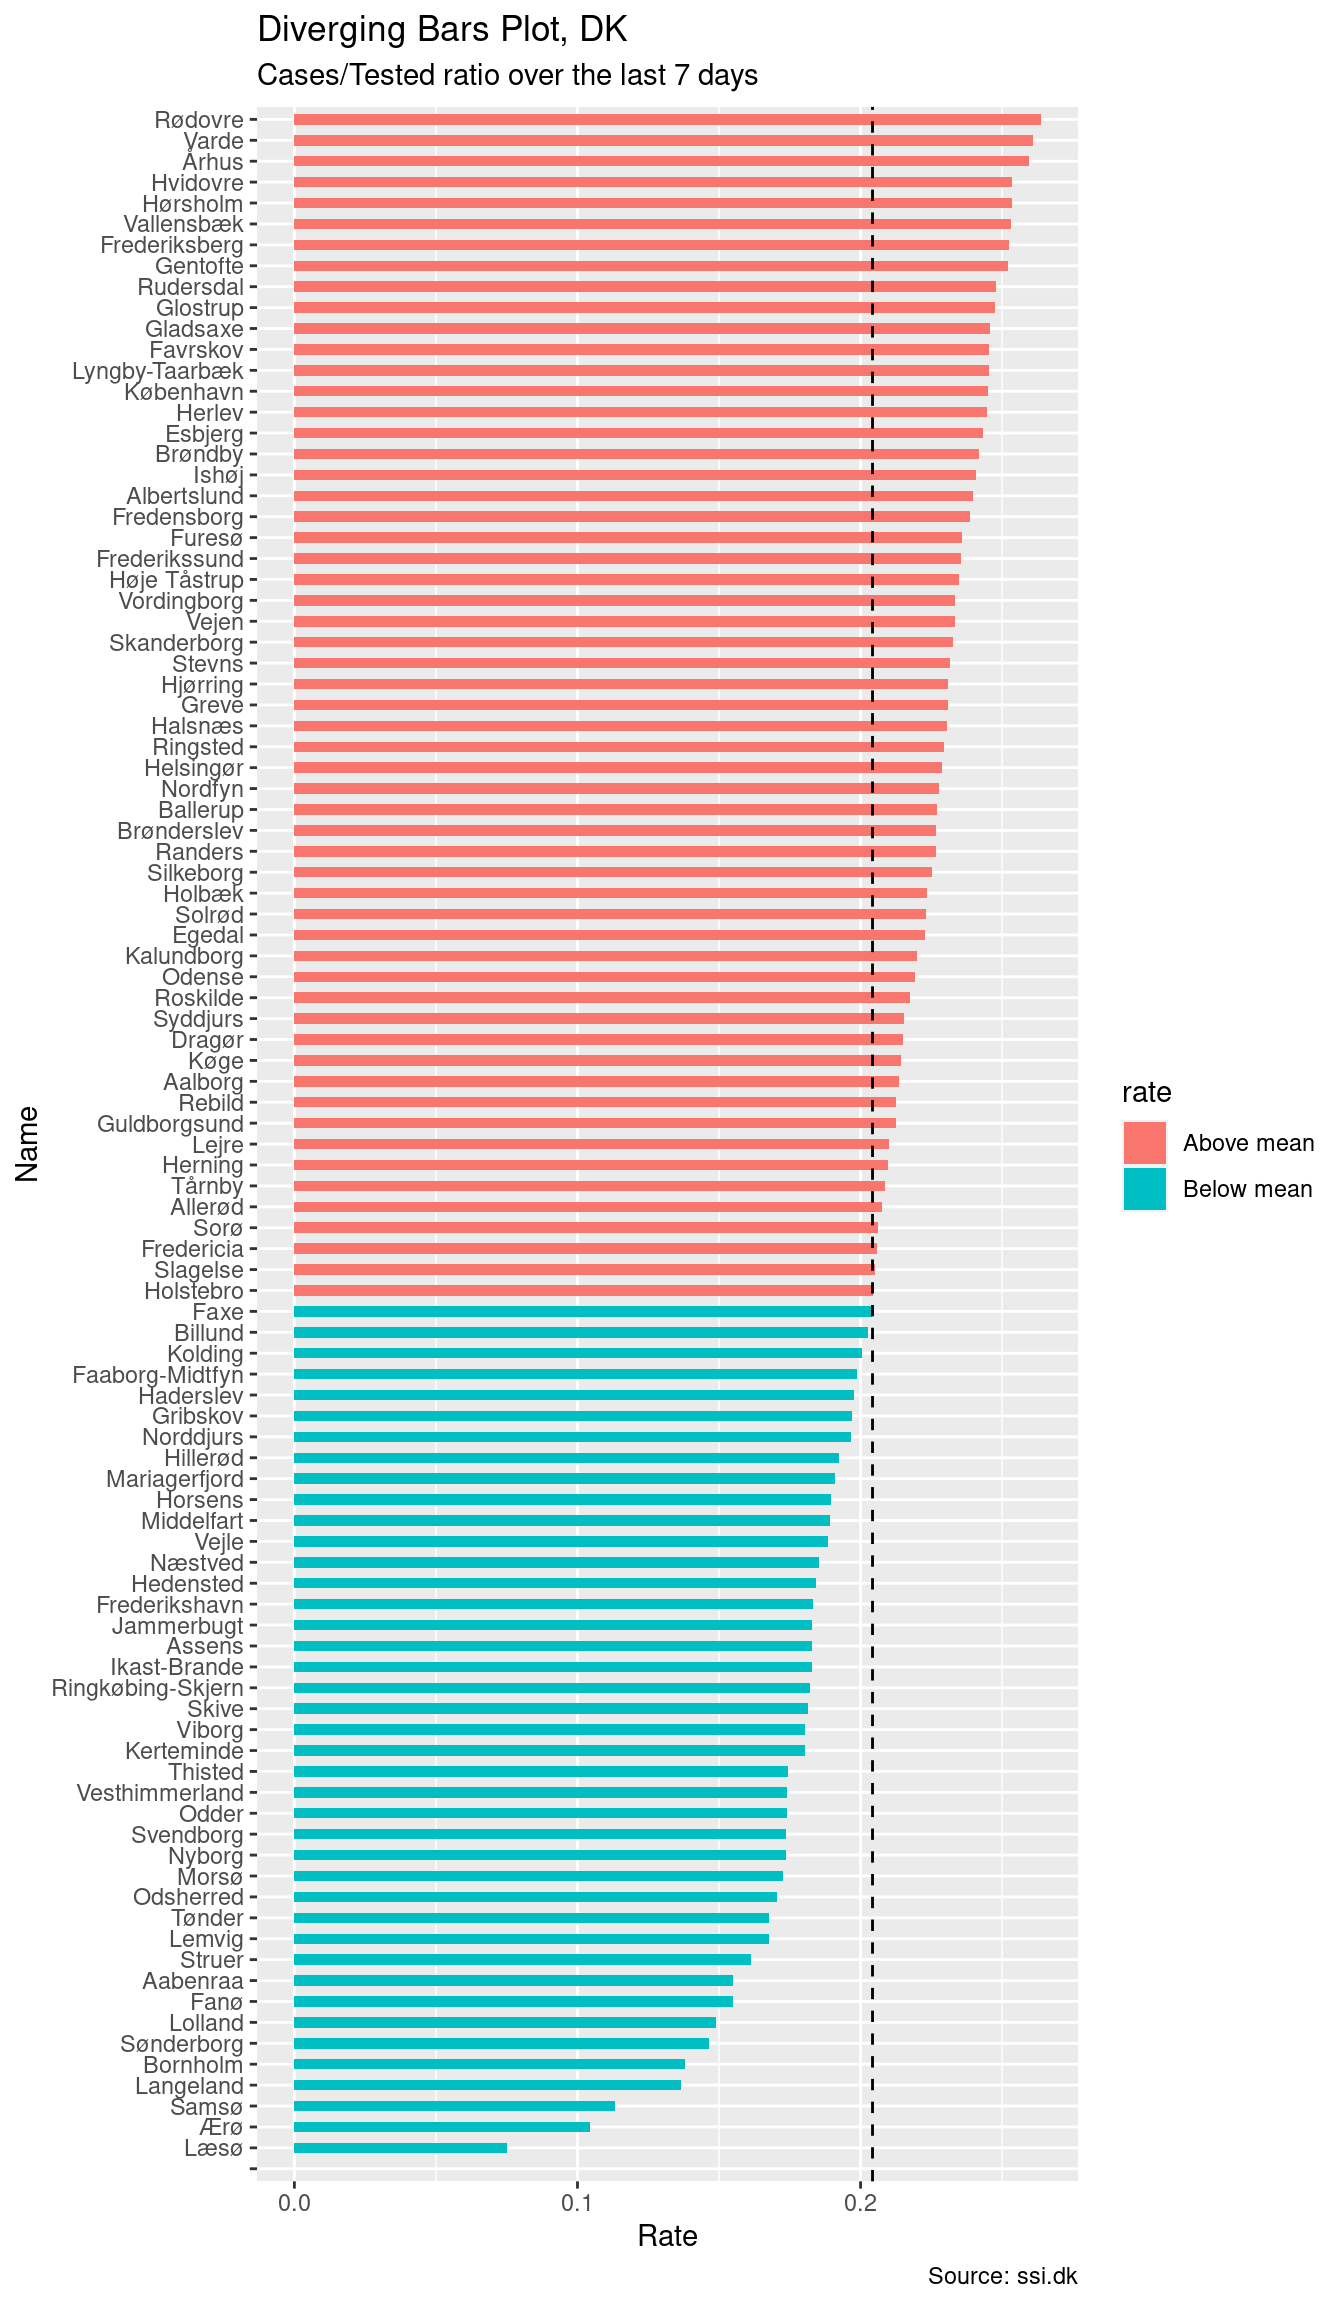
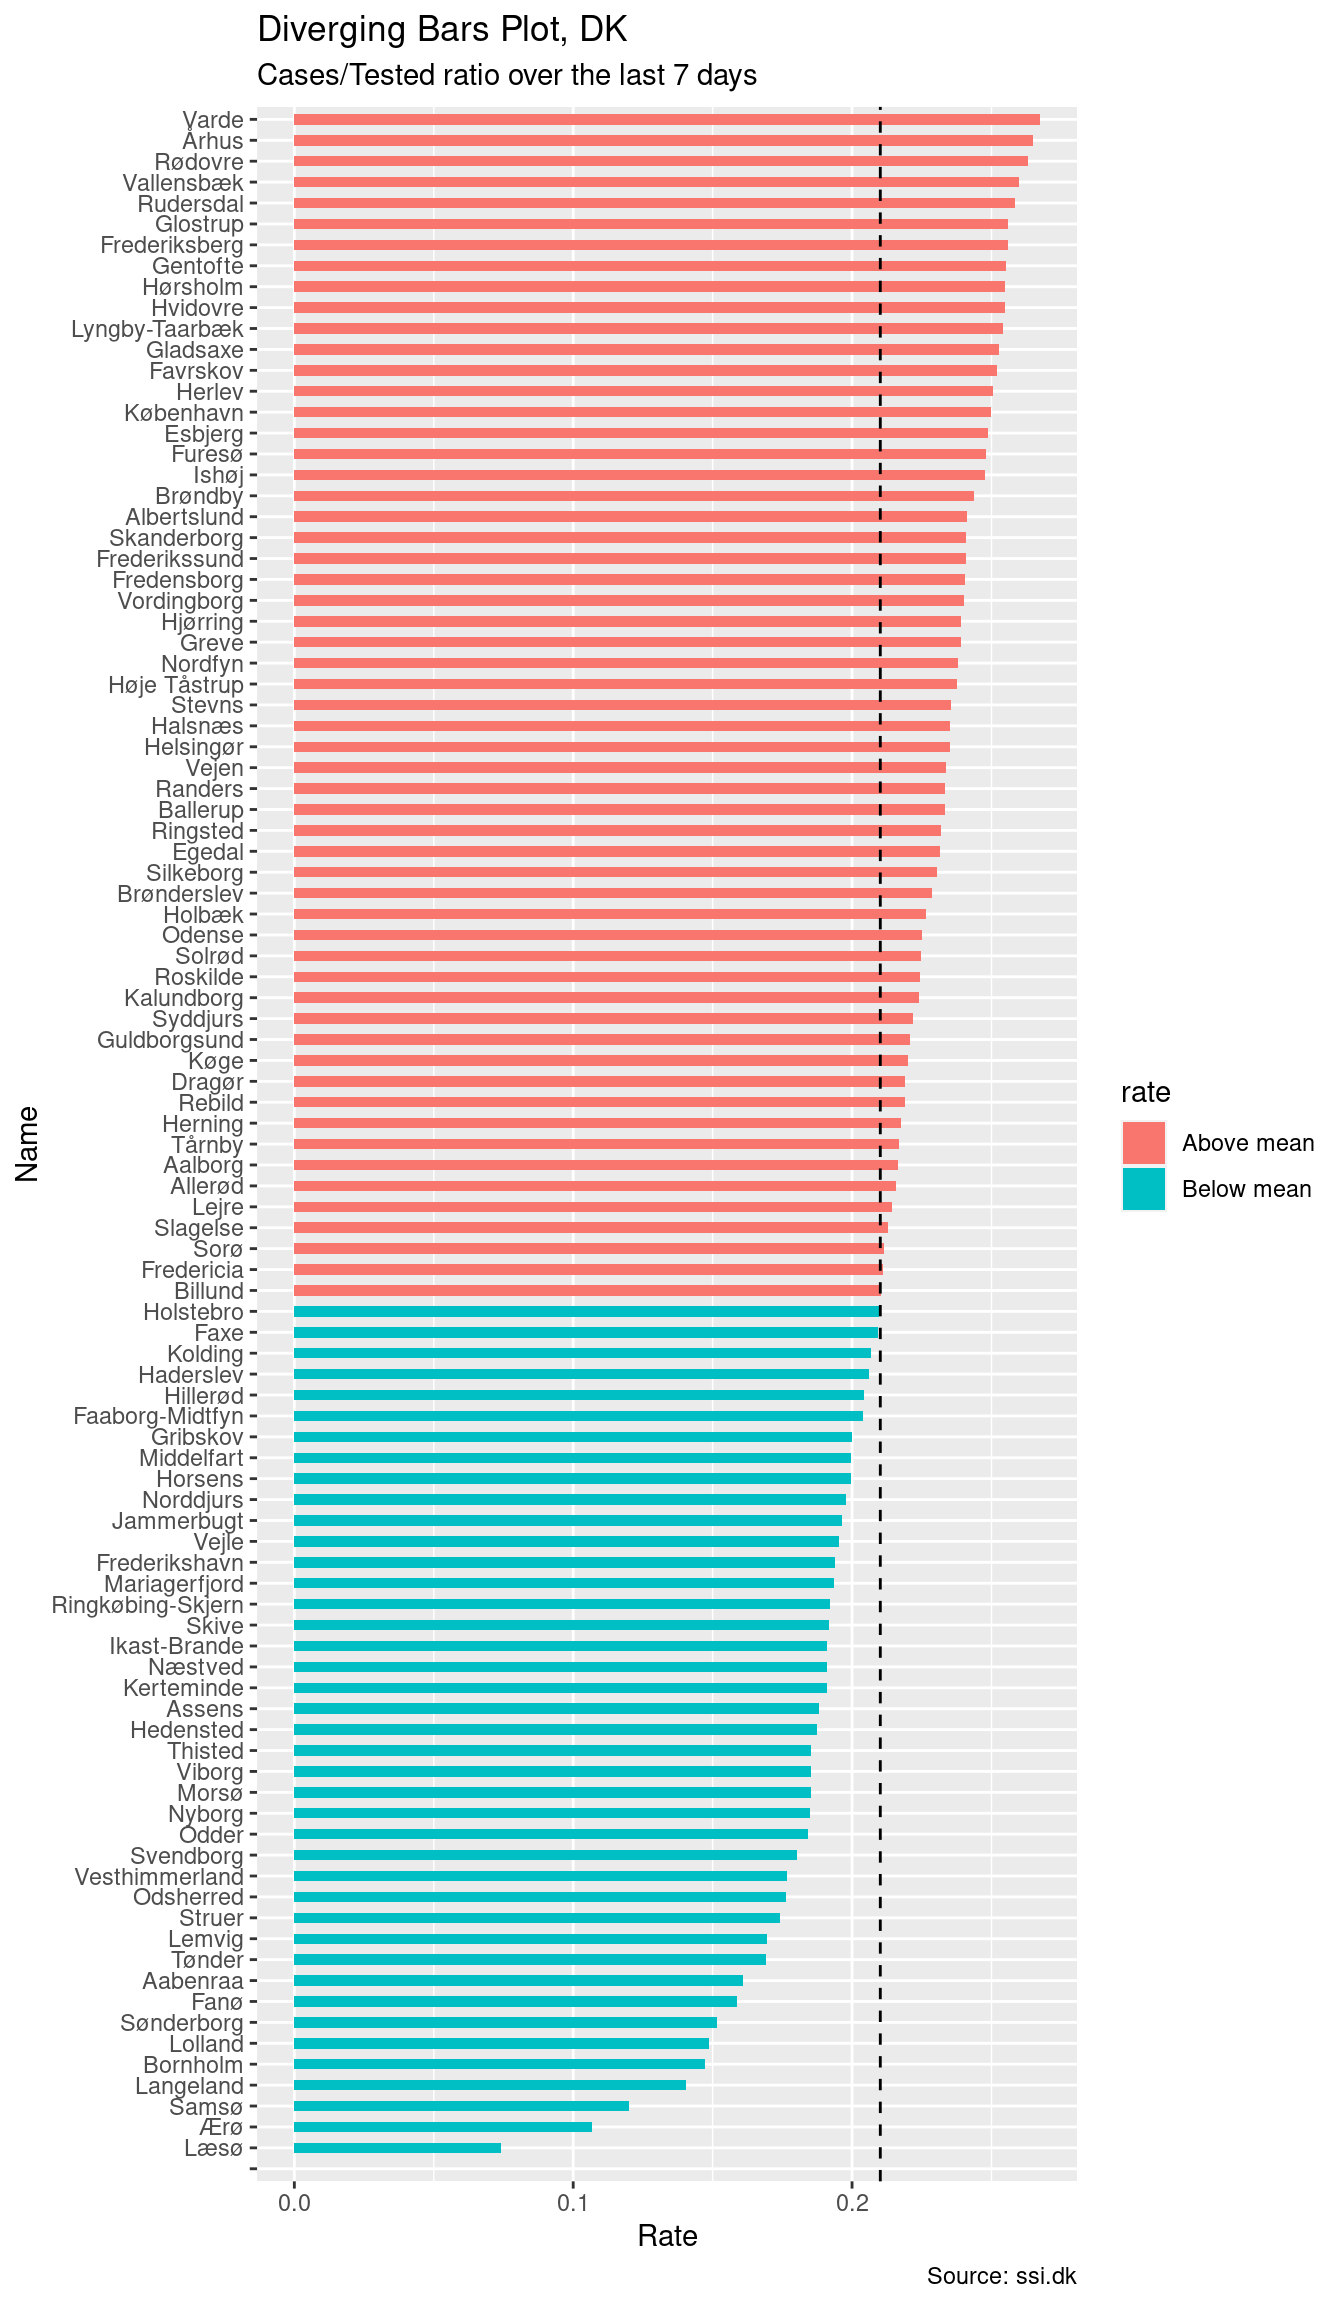
2022-01-25

diff --git a/docs/index.html b/docs/index.html
@@ -10,7 +10,7 @@
 
 
 
-<meta name="date" content="2022-01-24" />
+<meta name="date" content="2022-01-25" />
 
 <title>Covid-19 Stats for Denmark</title>
 
@@ -258,7 +258,7 @@ $(document).ready(function () {
 
 
 <h1 class="title toc-ignore">Covid-19 Stats for Denmark</h1>
-<h4 class="date">2022-01-24</h4>
+<h4 class="date">2022-01-25</h4>
 
 </div>
 
@@ -305,7 +305,7 @@ $(document).ready(function () {
 <pre class="r"><code>library(tidyverse)
 library(lubridate)</code></pre>
 <p>SSI’s data is in a zip file. We unpack this zip file into a directory of the general form <code>YYYY-MM-DD</code>. Lets set up a name for the current directory we want to grab data from</p>
-<pre class="r"><code>date &lt;- &quot;2022-01-24&quot;</code></pre>
+<pre class="r"><code>date &lt;- &quot;2022-01-25&quot;</code></pre>
 </div>
 <div id="ingesting-data" class="section level2">
 <h2>Ingesting data</h2>
@@ -347,7 +347,7 @@ library(lubridate)</code></pre>
                                       ))</code></pre>
 <pre><code>## ℹ Using &quot;&#39;,&#39;&quot; as decimal and &quot;&#39;.&#39;&quot; as grouping mark. Use `read_delim()` for more control.</code></pre>
 <pre class="r"><code>data</code></pre>
-<pre><code>## # A tibble: 6,625 × 9
+<pre><code>## # A tibble: 6,641 × 9
 ##    Region      Prøvetagningsdato Køn   `Bekræftede tilfælde`  Døde Indlæggelser
 ##    &lt;fct&gt;       &lt;date&gt;            &lt;fct&gt;                 &lt;dbl&gt; &lt;dbl&gt;        &lt;dbl&gt;
 ##  1 Sjælland    2020-02-26        M                         1     0            0
@@ -360,7 +360,7 @@ library(lubridate)</code></pre>
 ##  8 Hovedstaden 2020-03-03        F                         1     0            0
 ##  9 Hovedstaden 2020-03-03        M                         3     0            1
 ## 10 Hovedstaden 2020-03-04        M                         2     0            0
-## # … with 6,615 more rows, and 3 more variables: Kummuleret antal døde &lt;dbl&gt;,
+## # … with 6,631 more rows, and 3 more variables: Kummuleret antal døde &lt;dbl&gt;,
 ## #   Kummuleret antal bekræftede tilfælde &lt;dbl&gt;,
 ## #   Kummuleret antal indlæggelser &lt;dbl&gt;</code></pre>
 <p>We certainly don’t want to work with danish-named columns. Rather, we want small descriptive names which are easy to type. We send our dataset through a <code>rename</code> pass for this.</p>
@@ -375,7 +375,7 @@ library(lubridate)</code></pre>
 # Cut the cumulative columns away
 data &lt;- data %&gt;% select(region, date, gender, cases, deaths, hospitalizations)
 data</code></pre>
-<pre><code>## # A tibble: 6,625 × 6
+<pre><code>## # A tibble: 6,641 × 6
 ##    region      date       gender cases deaths hospitalizations
 ##    &lt;fct&gt;       &lt;date&gt;     &lt;fct&gt;  &lt;dbl&gt;  &lt;dbl&gt;            &lt;dbl&gt;
 ##  1 Sjælland    2020-02-26 M          1      0                0
@@ -388,7 +388,7 @@ data</code></pre>
 ##  8 Hovedstaden 2020-03-03 F          1      0                0
 ##  9 Hovedstaden 2020-03-03 M          3      0                1
 ## 10 Hovedstaden 2020-03-04 M          2      0                0
-## # … with 6,615 more rows</code></pre>
+## # … with 6,631 more rows</code></pre>
 <p>Provide a low cut-off. We are interested in the recent period with Omicron, rather than the full duration of Covid-19.</p>
 <pre class="r"><code>lo_cutoff &lt;- &#39;2021-09-01&#39;</code></pre>
 <p>The high end of that cutoff, we set to two days before the maximal date in our data set</p>
@@ -402,7 +402,7 @@ data</code></pre>
 # Put this into the summary
 summary &lt;- data
 summary</code></pre>
-<pre><code>## # A tibble: 1,430 × 6
+<pre><code>## # A tibble: 1,440 × 6
 ##    region      date       gender cases deaths hospitalizations
 ##    &lt;fct&gt;       &lt;date&gt;     &lt;fct&gt;  &lt;dbl&gt;  &lt;dbl&gt;            &lt;dbl&gt;
 ##  1 Hovedstaden 2021-09-01 F        210      0                7
@@ -415,7 +415,7 @@ summary</code></pre>
 ##  8 Nordjylland 2021-09-01 M         16      1                2
 ##  9 Sjælland    2021-09-01 M         37      0                3
 ## 10 Syddanmark  2021-09-01 M         41      0                1
-## # … with 1,420 more rows</code></pre>
+## # … with 1,430 more rows</code></pre>
 </div>
 <div id="weekly-key-figures-split-by-age" class="section level3">
 <h3>Weekly key figures split by age</h3>
@@ -506,15 +506,15 @@ data</code></pre>
 ##     lau1 name      `Bekræftede tilf… Incidens cases incidence tested tested_100k
 ##    &lt;dbl&gt; &lt;fct&gt;                 &lt;dbl&gt;    &lt;dbl&gt; &lt;dbl&gt;     &lt;dbl&gt;  &lt;dbl&gt;       &lt;dbl&gt;
 ##  1   411 &quot;&quot;                        0       NA     0         0     87       95604
-##  2   101 &quot;Københa…            222150    34643 29642      4622 649229      101000
-##  3   147 &quot;Frederi…             33333    32302  4648      4504 110457      107000
-##  4   151 &quot;Balleru…             15531    31578  2583      5252  49592      101000
-##  5   153 &quot;Brøndby&quot;             12983    36430  1877      5267  35745      100000
-##  6   155 &quot;Dragør&quot;               4506    30846   684      4682  14394       98535
-##  7   157 &quot;Gentoft…             22843    30899  3584      4848  75089      102000
-##  8   159 &quot;Gladsax…             22287    32231  3693      5341  71159      103000
-##  9   161 &quot;Glostru…              7971    34038  1267      5410  24132      103000
-## 10   163 &quot;Herlev&quot;              10254    35626  1596      5545  29460      102000
+##  2   101 &quot;Københa…            226959    35392 30364      4735 649630      101000
+##  3   147 &quot;Frederi…             34078    33024  4795      4647 110528      107000
+##  4   151 &quot;Balleru…             15916    32361  2656      5400  49614      101000
+##  5   153 &quot;Brøndby&quot;             13287    37283  1889      5301  35769      100000
+##  6   155 &quot;Dragør&quot;               4583    31373   705      4826  14402       98590
+##  7   157 &quot;Gentoft…             23250    31450  3653      4941  75128      102000
+##  8   159 &quot;Gladsax…             22856    33054  3801      5497  71212      103000
+##  9   161 &quot;Glostru…              8118    34666  1322      5645  24144      103000
+## 10   163 &quot;Herlev&quot;              10502    36488  1652      5740  29478      102000
 ## # … with 89 more rows, and 3 more variables: tested_1w &lt;dbl&gt;,
 ## #   tested_100k_1w &lt;dbl&gt;, population &lt;dbl&gt;</code></pre>
 <pre class="r"><code>muncipalities &lt;- data</code></pre>
@@ -590,7 +590,7 @@ plot_country_lag(p, &quot;Delta change on cases&quot;, &quot;Source: ssi.dk&quot
 </ul>
 <pre class="r"><code>plot_day_of_week &lt;- function(p, title, caption) {
     p + scale_colour_brewer(palette=&quot;Set2&quot;) +
-        stat_boxplot(aes(fill=weekday, color=weekday), alpha=0.3) +
+        stat_boxplot(aes(color=weekday), alpha=0.3) +
         labs(title = title, caption = caption)
 }
 
@@ -674,21 +674,23 @@ muncipalities$incidence_type &lt;- ifelse(muncipalities$incidence_z &lt; 0, &quo
 muncipalities$rate_z &lt;- round(muncipalities$rate - mean(muncipalities$rate), 5)
 muncipalities$rate_type &lt;- ifelse(muncipalities$rate_z &lt; 0, &quot;Below mean&quot;, &quot;Above mean&quot;)
 muncipalities$rate</code></pre>
-<pre><code>##  [1] 0.0000000 0.2451150 0.2525538 0.2269173 0.2418814 0.2151620 0.2521990
-##  [8] 0.2455942 0.2474126 0.2445602 0.2398654 0.2533649 0.2349310 0.2454257
-## [15] 0.2637087 0.2408570 0.2085766 0.2531110 0.2358711 0.2075506 0.2387398
-## [22] 0.2286676 0.1924886 0.2533303 0.2479256 0.2227898 0.2355594 0.2308635
-## [29] 0.2143077 0.2304606 0.2175883 0.2229983 0.1968474 0.1704989 0.2234386
-## [36] 0.2041840 0.2198900 0.2294261 0.2050003 0.2315967 0.2061588 0.2099151
-## [43] 0.1488740 0.1854396 0.2125181 0.2334431 0.1378691 0.1893402 0.1827604
-## [50] 0.1987813 0.1803346 0.1737912 0.2193578 0.1738136 0.2277079 0.1366397
-## [57] 0.1043557 0.1977416 0.2024629 0.1465828 0.1677052 0.2432182 0.1547826
-## [64] 0.2607707 0.2332575 0.1550751 0.2058766 0.1896597 0.2004756 0.1884416
-## [71] 0.2097839 0.2043301 0.1674945 0.1611521 0.2152798 0.1967572 0.2454409
-## [78] 0.1740000 0.2266819 0.2252261 0.1132075 0.2326404 0.2596552 0.1826835
-## [85] 0.1821151 0.1841875 0.1724432 0.1813855 0.1743829 0.1804194 0.2267425
-## [92] 0.1833697 0.1740502 0.0751634 0.2126398 0.1908599 0.1829044 0.2135254
-## [99] 0.2309109</code></pre>
+<pre><code>##  [1] 0.00000000 0.24971216 0.25584249 0.23318701 0.24358478 0.21908017
+##  [7] 0.25529387 0.25272606 0.25595353 0.25068285 0.24126931 0.25483651
+## [13] 0.23781222 0.25408097 0.26292546 0.24776337 0.21673753 0.25972120
+## [19] 0.24786878 0.21585516 0.24042428 0.23505249 0.20412451 0.25489314
+## [25] 0.25845511 0.23155738 0.24070796 0.23895072 0.22019603 0.23520126
+## [31] 0.22422822 0.22463522 0.19984812 0.17613883 0.22643571 0.20930889
+## [37] 0.22400796 0.23181612 0.21280421 0.23557493 0.21129254 0.21444275
+## [43] 0.14867039 0.19108933 0.22085279 0.24018945 0.14718949 0.19951813
+## [49] 0.18814602 0.20395062 0.19090187 0.18477795 0.22510955 0.18013311
+## [55] 0.23790685 0.14034205 0.10691244 0.20618113 0.21052632 0.15173831
+## [61] 0.16899184 0.24881308 0.15878378 0.26738944 0.23382834 0.16094562
+## [67] 0.21119908 0.19948146 0.20690030 0.19523124 0.21753856 0.20957772
+## [73] 0.16964041 0.17426335 0.22169946 0.19773585 0.25201170 0.18428184
+## [79] 0.23327693 0.23064117 0.11985019 0.24090242 0.26497696 0.19117078
+## [85] 0.19200400 0.18745932 0.18522602 0.19165479 0.18537488 0.18524609
+## [91] 0.22851507 0.19385797 0.17660175 0.07419355 0.21902991 0.19364019
+## [97] 0.19627021 0.21636525 0.23921044</code></pre>
 <pre class="r"><code>ggplot(muncipalities %&gt;% mutate(name = fct_reorder(name, rate)), aes(x=name, y=rate)) +
   geom_bar(stat=&#39;identity&#39;, aes(fill=rate_type), width=.5)  +
   scale_colour_brewer(palette=&quot;Set2&quot;) +
@@ -716,7 +718,7 @@ muncipalities$rate</code></pre>
 popcount &lt;- read_data_2(&quot;./data/DS/2022121185617360647690FOLK1AM68563293012.csv&quot;)</code></pre>
 <pre><code>## ℹ Using &quot;&#39;,&#39;&quot; as decimal and &quot;&#39;.&#39;&quot; as grouping mark. Use `read_delim()` for more control.</code></pre>
 <pre><code>## Rows: 103 Columns: 4</code></pre>
-<pre><code>## ── Column specification ────────────────────────────────────────────────────────
+<pre><code>## ── Column specification ─────────────────────────────────────────────────────────────────────────
 ## Delimiter: &quot;;&quot;
 ## chr (3): X1, X2, X3
 ## dbl (1): X4</code></pre>
@@ -748,15 +750,15 @@ popcount</code></pre>
 ##    name            incidence popcount
 ##    &lt;chr&gt;               &lt;dbl&gt;    &lt;dbl&gt;
 ##  1 &quot;&quot;                      0       NA
-##  2 &quot;København&quot;          4622   644987
-##  3 &quot;Frederiksberg&quot;      4504   103963
-##  4 &quot;Ballerup&quot;           5252    49228
-##  5 &quot;Brøndby&quot;            5267    35535
-##  6 &quot;Dragør&quot;             4682    14602
-##  7 &quot;Gentofte&quot;           4848    74154
-##  8 &quot;Gladsaxe&quot;           5341    69321
-##  9 &quot;Glostrup&quot;           5410    23519
-## 10 &quot;Herlev&quot;             5545    28861
+##  2 &quot;København&quot;          4735   644987
+##  3 &quot;Frederiksberg&quot;      4647   103963
+##  4 &quot;Ballerup&quot;           5400    49228
+##  5 &quot;Brøndby&quot;            5301    35535
+##  6 &quot;Dragør&quot;             4826    14602
+##  7 &quot;Gentofte&quot;           4941    74154
+##  8 &quot;Gladsaxe&quot;           5497    69321
+##  9 &quot;Glostrup&quot;           5645    23519
+## 10 &quot;Herlev&quot;             5740    28861
 ## # … with 89 more rows</code></pre>
 <p>Now, test correlation via Pearson:</p>
 <pre class="r"><code>plot(muncipalities$incidence, muncipalities$popcount)</code></pre>
@@ -766,13 +768,13 @@ popcount</code></pre>
 ##  Pearson&#39;s product-moment correlation
 ## 
 ## data:  muncipalities$incidence and muncipalities$popcount
-## t = 1.4364, df = 92, p-value = 0.1543
+## t = 1.3688, df = 92, p-value = 0.1744
 ## alternative hypothesis: true correlation is not equal to 0
 ## 95 percent confidence interval:
-##  -0.0562027  0.3405001
+##  -0.06314402  0.33432707
 ## sample estimates:
 ##       cor 
-## 0.1481008</code></pre>
+## 0.1412805</code></pre>
 <p>Clearly, this argues there are no strong connection between population count, and the incidence in a given muncipality.</p>
 <p>Analyzing the rate shows there’s a connection between it and incidence, but this is more expected:</p>
 <pre class="r"><code>pairs(muncipalities %&gt;% select(incidence,popcount,rate))</code></pre>
@@ -782,13 +784,13 @@ popcount</code></pre>
 ##  Pearson&#39;s product-moment correlation
 ## 
 ## data:  muncipalities$incidence and muncipalities$rate
-## t = 16.696, df = 97, p-value &lt; 2.2e-16
+## t = 16.447, df = 97, p-value &lt; 2.2e-16
 ## alternative hypothesis: true correlation is not equal to 0
 ## 95 percent confidence interval:
-##  0.7999035 0.9048624
+##  0.7952053 0.9024951
 ## sample estimates:
 ##       cor 
-## 0.8613061</code></pre>
+## 0.8579359</code></pre>
 </div>
 </div>
 
